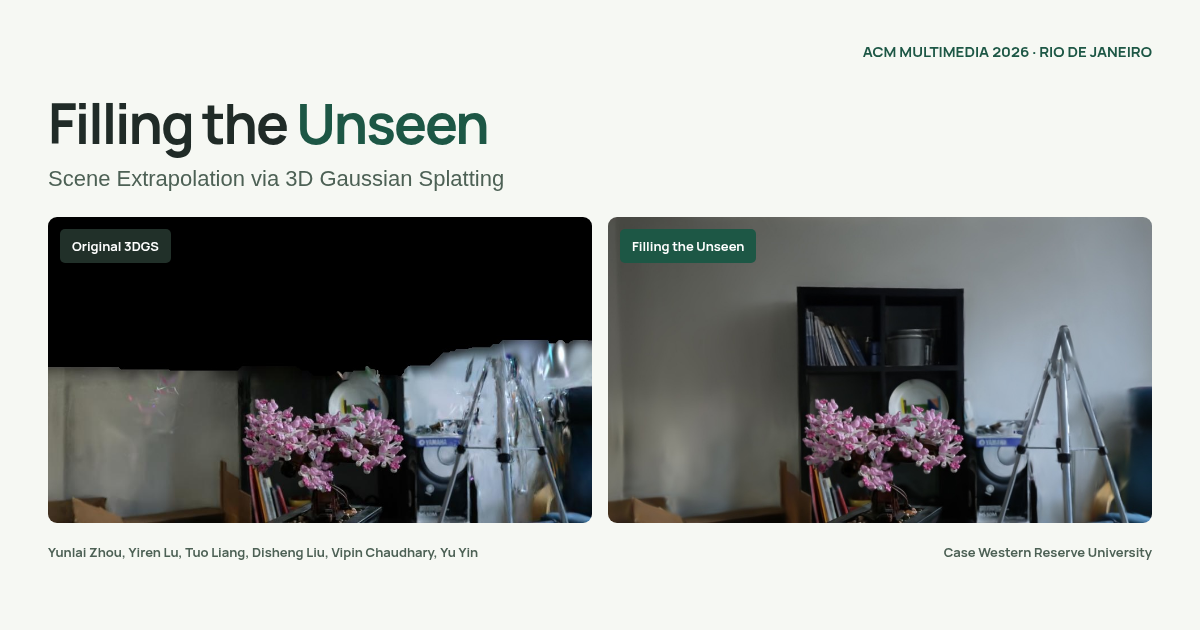
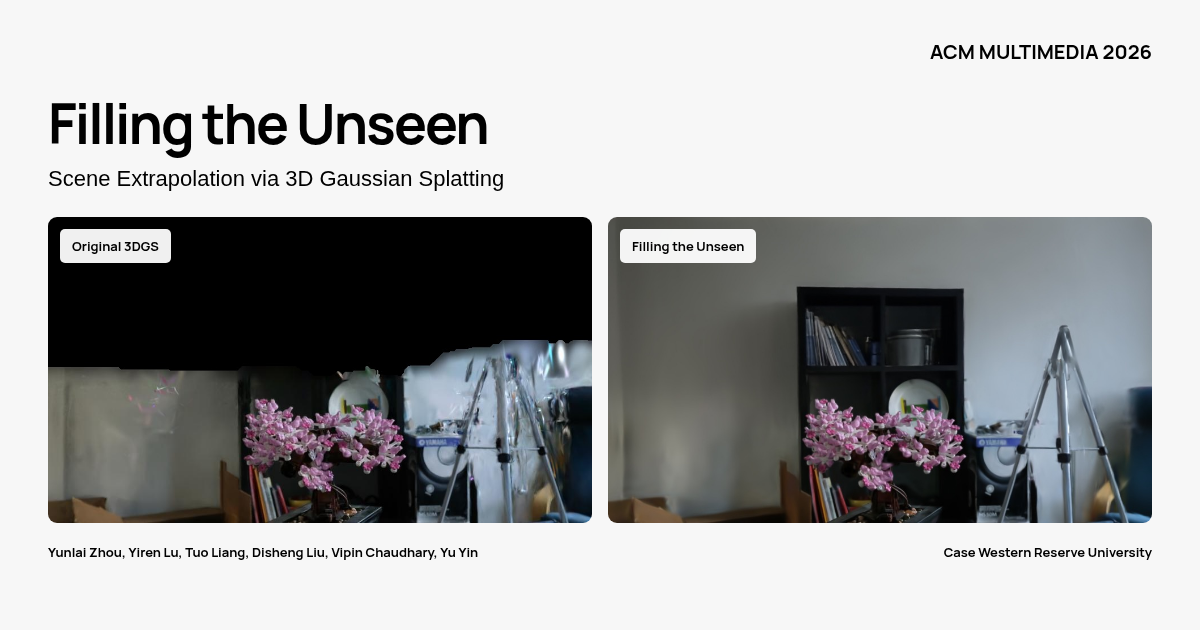
Simplify project page header and use monochrome styling

diff --git a/styles.css b/styles.css
@@ -1,88 +1,74 @@
 @font-face{font-family:Manrope;src:url('assets/fonts/manrope-regular.ttf') format('truetype');font-weight:400;font-style:normal;font-display:swap}
 @font-face{font-family:Manrope;src:url('assets/fonts/manrope-bold.ttf') format('truetype');font-weight:600 800;font-style:normal;font-display:swap}
-:root{--ink:#202b27;--muted:#626d67;--green:#1d5745;--green-light:#e6eee7;--line:#dce2dc;--tint:#f5f7f3;--white:#fff;--radius:12px;font-family:Manrope,Arial,sans-serif;color:var(--ink);font-size:16px;line-height:1.7;font-synthesis:none}
+:root{--ink:#000;--selected:#eee;--line:#ddd;--tint:#f7f7f7;--white:#fff;--radius:12px;font-family:Manrope,Arial,sans-serif;color:var(--ink);font-size:16px;line-height:1.7;font-synthesis:none}
 *{box-sizing:border-box}
-html{scroll-behavior:smooth;scroll-padding-top:94px}
+html{scroll-behavior:smooth;scroll-padding-top:24px}
 body{margin:0;background:var(--white)}
 body:has(dialog[open]){overflow:hidden}
 button,input,select{font:inherit}
 button,a,input,select,summary{-webkit-tap-highlight-color:transparent}
 button,select,summary{cursor:pointer}
-a{color:var(--green);text-decoration:none;text-underline-offset:4px}
+a{color:var(--ink);text-decoration:none;text-underline-offset:4px}
 a:hover{text-decoration:underline}
-button{color:inherit}
+button{color:var(--ink)}
 img,video{display:block;max-width:100%;height:auto}
 button svg,a svg{width:18px;height:18px;fill:none;stroke:currentColor;stroke-width:1.6;stroke-linecap:round;stroke-linejoin:round}
 [hidden]{display:none!important}
-:focus-visible{outline:3px solid #3d8059;outline-offset:5px}
+:focus-visible{outline:3px solid #000;outline-offset:5px}
 h1,h2,h3,p,figure{margin:0}
 h1,h2,h3{line-height:1.2;font-weight:700;text-wrap:balance}
 h2{font-size:36px;letter-spacing:-1.35px}
 h3{font-size:21px;letter-spacing:-.55px}
-p{color:var(--muted)}
+p{color:var(--ink)}
 strong{color:var(--ink)}
 .container{width:min(1080px,calc(100% - 64px));margin-inline:auto}
-.skip-link{position:fixed;top:-70px;left:16px;z-index:100;background:var(--green);color:white;padding:12px 20px;border-radius:6px}
+.skip-link{position:fixed;top:-70px;left:16px;z-index:100;background:#fff;border:1px solid var(--ink);color:var(--ink);padding:12px 20px;border-radius:6px}
 .skip-link:focus{top:10px}
-.site-header{position:sticky;top:0;z-index:20;height:68px;background:rgb(255 255 255 / 94%);backdrop-filter:blur(15px);border-bottom:1px solid #edf0eb}
-.nav{height:100%;display:flex;align-items:center;justify-content:space-between;gap:25px}
+
 .brand{display:flex;align-items:center;gap:10px;font-size:14px;font-weight:700;color:var(--ink);letter-spacing:-.2px}
 .brand:hover{text-decoration:none}
-.nav-links{display:flex;gap:27px;font-size:13px}
-.nav-links a{color:var(--muted)}
-.nav-links a[aria-current]{color:var(--green)}
-.nav-paper{font-size:13px;font-weight:700;display:flex;gap:14px}
+
 .hero{text-align:center;padding-top:62px;padding-bottom:48px}
-.venue{display:flex;justify-content:center;align-items:center;gap:10px;font-size:10px;letter-spacing:1.5px;color:var(--green);font-weight:700}
-.venue-dot{width:6px;height:6px;background:var(--green);border-radius:50%}
-.venue-separator{color:#a2aaa2;margin:0 3px}
+.venue{font-size:clamp(16px,2vw,20px);letter-spacing:1.5px;color:var(--ink);font-weight:700}
+
 h1{font-size:clamp(44px,6.1vw,72px);letter-spacing:-3.5px;margin:23px 0 12px;line-height:1.09}
-h1 span{color:var(--green)}
+
 .paper-subtitle{color:var(--ink);font-size:clamp(19px,2.6vw,29px);line-height:1.4;letter-spacing:-.65px}
 .authors{display:flex;justify-content:center;gap:9px 22px;flex-wrap:wrap;font-size:16px;line-height:1.6;margin-top:25px}
-.authors a,.authors>span{color:var(--green)}
+.authors a,.authors>span{color:var(--ink)}
 .authors sup{font-size:11px;padding-left:2px}
 .affiliation{font-size:14px;color:var(--ink);margin-top:9px}
 .corresponding{font-size:10px;margin-top:4px}
 .publication-links{display:flex;justify-content:center;flex-wrap:wrap;gap:10px;margin-top:24px}
 .button{display:inline-flex;align-items:center;justify-content:center;gap:10px;min-height:43px;border:1px solid transparent;border-radius:30px;padding:9px 20px;font-size:13px;font-weight:700;line-height:1.4;transition:background .2s,transform .2s}
 .button:hover{text-decoration:none;transform:translateY(-1px)}
-.button-dark{background:var(--ink);color:#fff;border-color:var(--ink)}
-.button-dark:hover{background:var(--green);border-color:var(--green)}
-.button-outline{color:var(--ink);background:transparent;border-color:var(--line)}
-.button-outline:hover{background:var(--green-light);border-color:#c2d4c2}
-.figure-topline{display:flex;justify-content:space-between;align-items:center;margin-bottom:14px}
-.figure-topline h2{font-size:17px;letter-spacing:-.4px}
-.interaction-hint{font-size:11px;color:var(--muted)}
-.interaction-hint span{margin-left:7px}
+
+.button-outline{color:var(--ink);background:transparent;border-color:var(--ink)}
+.button-outline:hover{background:var(--selected);border-color:#aaa}
+
 .compare{position:relative;isolation:isolate;aspect-ratio:16/9;overflow:hidden;background:#111;border-radius:var(--radius);--split:50%;touch-action:pan-y}
 .compare>img{position:absolute;inset:0;width:100%;height:100%;object-fit:contain}
 .compare-before{clip-path:inset(0 calc(100% - var(--split)) 0 0)}
-.compare-label{position:absolute;top:19px;z-index:2;pointer-events:none;border:1px solid rgb(255 255 255 / 22%);border-radius:5px;font-size:11px;font-weight:700;line-height:1.2;color:white;padding:8px 11px;background:rgb(20 29 24 / 86%)}
+.compare-label{position:absolute;top:19px;z-index:2;pointer-events:none;border:1px solid var(--line);border-radius:5px;font-size:11px;font-weight:700;line-height:1.2;color:var(--ink);padding:8px 11px;background:rgb(255 255 255 / 94%)}
 .before-label{left:18px}
-.after-label{right:18px;background:var(--green)}
-.after-label>span{margin-left:7px;color:#d6edb5}
+.after-label{right:18px;background:var(--selected)}
+.after-label>span{margin-left:7px;color:var(--ink)}
 .compare-divider{position:absolute;top:0;bottom:0;left:var(--split);width:2px;background:rgba(255,255,255,.92);transform:translateX(-50%);pointer-events:none}
-.compare-divider>span{position:absolute;top:50%;left:50%;transform:translate(-50%,-50%);display:flex;align-items:center;justify-content:center;gap:9px;width:44px;height:44px;border-radius:50%;background:white;box-shadow:0 2px 18px #0003;color:#244a37;font:26px Arial,sans-serif}
-.compare-divider i{display:block;height:14px;width:1px;background:#ced6ce}
+.compare-divider>span{position:absolute;top:50%;left:50%;transform:translate(-50%,-50%);display:flex;align-items:center;justify-content:center;gap:9px;width:44px;height:44px;border-radius:50%;background:white;box-shadow:0 2px 18px #0003;color:var(--ink);font:26px Arial,sans-serif}
+.compare-divider i{display:block;height:14px;width:1px;background:#ccc}
 .compare-range{position:absolute;z-index:3;inset:0;width:100%;height:100%;margin:0;opacity:0;cursor:ew-resize;touch-action:pan-y}
-.compare:focus-within{outline:3px solid #3d8059;outline-offset:5px}
-.teaser-bottom{display:flex;align-items:center;justify-content:space-between;gap:30px;margin-top:19px}
-.teaser-bottom>p{font-size:15px;line-height:1.7}
-.scene-pills{display:flex;gap:9px}
-.scene-pills button{display:flex;align-items:center;gap:8px;padding:5px 10px 5px 5px;background:white;border:1px solid var(--line);border-radius:7px;font-size:11px;font-weight:700;transition:border-color .2s,background .2s}
-.scene-pills img{object-fit:cover;border-radius:3px;width:44px;height:30px}
-.scene-pills button[aria-pressed=true]{background:var(--green-light);border-color:var(--green);color:var(--green)}
-.source-note{font-size:11px;line-height:1.8;color:var(--muted);margin-top:17px}
-.teaser{padding-bottom:64px}
+.compare:focus-within{outline:3px solid #000;outline-offset:5px}
+
+.source-note{font-size:11px;line-height:1.8;color:var(--ink);margin-top:17px}
+
 .section{padding-block:76px}
 .section-tint{background:var(--tint)}
 .section-intro{text-align:center;max-width:760px;margin:0 auto 40px}
-.eyebrow{color:var(--green);font-size:10px;font-weight:700;letter-spacing:1.8px;margin-bottom:13px}
+.eyebrow{color:var(--ink);font-size:10px;font-weight:700;letter-spacing:1.8px;margin-bottom:13px}
 .lead{font-size:15px;line-height:1.9;max-width:665px;margin:19px auto 0}
 .contributions{display:grid;grid-template-columns:repeat(3,1fr);gap:32px;margin:42px 0 44px}
-.contributions article{border-top:1px solid #cbd6c8;padding-top:20px}
-.step-number{font-size:12px;color:var(--green);display:block;margin-bottom:15px;font-weight:700}
+.contributions article{border-top:1px solid #ccc;padding-top:20px}
+.step-number{font-size:12px;color:var(--ink);display:block;margin-bottom:15px;font-weight:700}
 .contributions h3{font-size:20px;margin-bottom:12px}
 .contributions p,.method-steps p{font-size:13px;line-height:1.9}
 .abstract{border-top:1px solid var(--line);border-bottom:1px solid var(--line)}
@@ -94,36 +80,36 @@ details[open]>summary>span{transform:rotate(45deg)}
 .abstract-text p+p{margin-top:14px}
 .section-heading{display:flex;justify-content:space-between;align-items:end;gap:36px;margin-bottom:32px}
 .section-heading>p{font-size:12px;text-align:right;line-height:1.8}
-.meta-label{font-size:10px;letter-spacing:1px;color:var(--muted);padding-bottom:4px}
-.demo-video{width:100%;aspect-ratio:16/9;background:#121715;border:1px solid var(--line);border-radius:var(--radius)}
+.meta-label{font-size:10px;letter-spacing:1px;color:var(--ink);padding-bottom:4px}
+.demo-video{width:100%;aspect-ratio:16/9;background:#111;border:1px solid var(--line);border-radius:var(--radius)}
 .video-caption{display:flex;align-items:start;justify-content:space-between;gap:35px;margin-top:16px}
 .video-caption>p{font-size:12px;max-width:780px}
 .text-link{white-space:nowrap;font-size:12px;font-weight:700}
 .result-scenes{display:grid;grid-template-columns:repeat(4,1fr);gap:12px;margin:0 0 25px}
 .result-scenes button{padding:5px;display:flex;align-items:center;gap:12px;border:1px solid var(--line);border-radius:8px;background:white;text-align:left;transition:border-color .2s,background .2s}
-.result-scenes button[aria-pressed=true]{border-color:var(--green);background:var(--green-light)}
+.result-scenes button[aria-pressed=true]{border-color:var(--ink);background:var(--selected)}
 .result-scenes img{width:74px;height:55px;object-fit:cover;border-radius:4px}
 .result-scenes span{font-size:12px;font-weight:700}
-.result-scenes small{display:block;font-size:10px;color:var(--muted);font-weight:400}
+.result-scenes small{display:block;font-size:10px;color:var(--ink);font-weight:400}
 .result-controls{display:flex;justify-content:space-between;align-items:center;gap:15px;margin-bottom:15px;font-size:11px}
 .method-control,.view-control{display:flex;align-items:center;gap:12px}
-.method-control label,.view-control>span{color:var(--muted)}
-select{min-height:40px;background:#fff;border:1px solid #cdd6cc;padding:6px 32px 6px 13px;border-radius:6px;color:var(--ink);font-size:12px}
+.method-control label,.view-control>span{color:var(--ink)}
+select{min-height:40px;background:#fff;border:1px solid #ccc;padding:6px 32px 6px 13px;border-radius:6px;color:var(--ink);font-size:12px}
 #view-buttons{display:flex;gap:5px}
 #view-buttons button{width:37px;height:37px;border:1px solid var(--line);border-radius:5px;background:#fff;font-size:12px}
-#view-buttons button[aria-pressed=true]{color:white;border-color:var(--green);background:var(--green)}
+#view-buttons button[aria-pressed=true]{color:var(--ink);border-color:var(--ink);background:var(--selected)}
 .comparison-caption{display:flex;justify-content:space-between;align-items:center;gap:20px;margin-top:13px;font-size:11px}
 .method-strip{display:flex;gap:10px;margin-top:23px;overflow-x:auto;padding-bottom:7px}
 .method-thumb{border:1px solid var(--line);border-radius:6px;background:white;flex:1;min-width:120px;padding:4px;text-align:center;font-size:10px;line-height:1.4}
 .method-thumb img{width:100%;aspect-ratio:16/9;object-fit:contain;background:#111;border-radius:3px;margin-bottom:5px}
 .method-thumb span{display:block;margin-bottom:4px}
-.method-thumb[aria-pressed=true]{border-color:var(--green);background:var(--green-light)}
-.method-thumb.ours-thumb{border-color:var(--green);color:var(--green);font-weight:700}
+.method-thumb[aria-pressed=true]{border-color:var(--ink);background:var(--selected)}
+.method-thumb.ours-thumb{border-color:var(--ink);color:var(--ink);font-weight:700}
 .paper-figure{padding:16px;background:#fff;border:1px solid var(--line);border-radius:var(--radius)}
 .zoomable{display:block;position:relative;cursor:zoom-in}
 .zoomable img{width:100%;height:auto}
-.zoom-hint{position:absolute;right:5px;bottom:5px;width:29px;height:29px;display:grid;place-items:center;background:#fff;border:1px solid var(--line);border-radius:4px;color:var(--green);font-size:16px}
-figcaption{font-size:12px;line-height:1.9;color:var(--muted);margin:15px 5px 0}
+.zoom-hint{position:absolute;right:5px;bottom:5px;width:29px;height:29px;display:grid;place-items:center;background:#fff;border:1px solid var(--line);border-radius:4px;color:var(--ink);font-size:16px}
+figcaption{font-size:12px;line-height:1.9;color:var(--ink);margin:15px 5px 0}
 .method-steps{display:grid;grid-template-columns:repeat(3,1fr);gap:30px;margin-top:32px}
 .method-steps .eyebrow{font-size:9px;margin-bottom:10px}
 .method-steps h3{font-size:18px;margin-bottom:13px}
@@ -133,50 +119,50 @@ figcaption{font-size:12px;line-height:1.9;color:var(--muted);margin:15px 5px 0}
 .camera-detail img{max-height:360px;object-fit:contain}
 .camera-detail p{font-size:13px;line-height:1.9}
 .qa-grid{display:grid;grid-template-columns:.8fr 1.2fr;gap:48px;align-items:center;margin-top:45px}
-.module-tag{display:inline-block;color:var(--green);background:var(--green-light);font-size:9px;font-weight:700;letter-spacing:1px;padding:5px 9px;border-radius:4px;margin-bottom:18px}
+.module-tag{display:inline-block;color:var(--ink);background:var(--selected);font-size:9px;font-weight:700;letter-spacing:1px;padding:5px 9px;border-radius:4px;margin-bottom:18px}
 .qa-copy h3{font-size:27px;line-height:1.3;margin-bottom:17px}
 .qa-copy>p{font-size:13px;line-height:1.9}
-.qa-stat{display:flex;flex-direction:column;gap:5px;margin-top:22px;border-bottom:1px solid #d6dfd1;padding-bottom:17px}
+.qa-stat{display:flex;flex-direction:column;gap:5px;margin-top:22px;border-bottom:1px solid #ddd;padding-bottom:17px}
 .qa-stat>span{font-size:12px;font-weight:700}
-.qa-stat small{font-size:10px;font-weight:400;color:var(--muted);margin-left:5px}
-.qa-stat strong{font-size:26px;color:var(--green);letter-spacing:-.8px;font-variant-numeric:tabular-nums}
-.qa-stat strong>span{font-size:19px;color:#829782;margin:0 9px}
+.qa-stat small{font-size:10px;font-weight:400;color:var(--ink);margin-left:5px}
+.qa-stat strong{font-size:26px;color:var(--ink);letter-spacing:-.8px;font-variant-numeric:tabular-nums}
+.qa-stat strong>span{font-size:19px;color:var(--ink);margin:0 9px}
 .qa-copy .source-note{font-size:10px;margin-top:13px}
 .qa-example{padding:10px}
 .metrics-tabs{display:flex;gap:9px;margin:30px 0 17px}
-.metrics-tabs button{background:#f3f5f0;border:1px solid transparent;border-radius:7px;padding:10px 17px;font-size:13px;font-weight:700}
-.metrics-tabs button[aria-selected=true]{background:var(--green);color:white}
-.metrics-tabs button span{font-size:10px;margin-left:12px;font-weight:400;opacity:.85}
+.metrics-tabs button{background:#f5f5f5;border:1px solid transparent;border-radius:7px;padding:10px 17px;font-size:13px;font-weight:700}
+.metrics-tabs button[aria-selected=true]{background:var(--selected);color:var(--ink)}
+.metrics-tabs button span{font-size:10px;margin-left:12px;font-weight:400;opacity:1}
 .table-scroll{overflow:auto;border:1px solid var(--line);border-radius:9px}
 table{border-collapse:collapse;min-width:600px;width:100%;font-size:13px;text-align:right;font-variant-numeric:tabular-nums}
-caption{caption-side:bottom;text-align:left;font-size:10px;color:var(--muted);padding:12px 19px;border-top:1px solid var(--line)}
-th,td{padding:16px 22px;border-bottom:1px solid #e8ece5;white-space:nowrap}
+caption{caption-side:bottom;text-align:left;font-size:10px;color:var(--ink);padding:12px 19px;border-top:1px solid var(--line)}
+th,td{padding:16px 22px;border-bottom:1px solid #e8e8e8;white-space:nowrap}
 th:first-child{text-align:left}
-thead{font-size:11px;background:#f5f7f3;color:var(--muted)}
+thead{font-size:11px;background:#f7f7f7;color:var(--ink)}
 tbody th{font-weight:400}
 tbody tr:last-child td,tbody tr:last-child th{border-bottom:0}
-.ours-row{background:#eaf2e7;color:var(--green)}
-.ours-row th,.ours-row strong{font-weight:700;color:var(--green)}
-.ours-row th>span{margin-left:10px;font-size:9px;padding:3px 6px;background:#d3e3cf;border-radius:3px;font-weight:400}
+.ours-row{background:#eee;color:var(--ink)}
+.ours-row th,.ours-row strong{font-weight:700;color:var(--ink)}
+.ours-row th>span{margin-left:10px;font-size:9px;padding:3px 6px;background:#ddd;border-radius:3px;font-weight:400}
 .evaluation-note{font-size:11px;line-height:1.9;margin-top:17px;max-width:970px}
 .citation-container{max-width:930px}
 .citation-container>p{font-size:13px}
 .citation-container .section-heading{align-items:center;margin-bottom:17px}
-pre{background:#fff;border:1px solid var(--line);border-radius:9px;padding:25px 29px;overflow:auto;font-size:12px;line-height:1.9;color:#3c5144;margin-top:25px;tab-size:2}
+pre{background:#fff;border:1px solid var(--line);border-radius:9px;padding:25px 29px;overflow:auto;font-size:12px;line-height:1.9;color:var(--ink);margin-top:25px;tab-size:2}
 code{font-family:'SFMono-Regular',Consolas,'Liberation Mono',monospace}
-.copy-status{min-height:20px;font-size:11px;color:var(--green)}
+.copy-status{min-height:20px;font-size:11px;color:var(--ink)}
 .footer{display:flex;justify-content:space-between;align-items:center;gap:25px;padding-block:34px}
 .footer p{font-size:10px;line-height:1.9;margin-top:9px}
 .footer>p{text-align:right}
 dialog{max-width:min(1320px,94vw);max-height:94vh;border:0;border-radius:12px;padding:45px 22px 20px;box-shadow:0 20px 80px #0004;color:var(--ink)}
-dialog::backdrop{background:rgb(14 25 18 / 78%);backdrop-filter:blur(4px)}
+dialog::backdrop{background:rgb(0 0 0 / 78%);backdrop-filter:blur(4px)}
 #dialog-image{max-height:72vh;max-width:100%;width:auto;height:auto;object-fit:contain;margin:auto}
 .dialog-close{position:absolute;top:5px;right:9px;border:0;background:transparent;font-size:30px;line-height:1;width:38px;height:38px}
 #dialog-caption{font-size:13px;margin-top:17px}
 #dialog-pdf{display:inline-block;margin-top:8px}
 @media(min-width:1500px){.container{width:min(1120px,calc(100% - 80px))}.hero{padding-top:70px;padding-bottom:53px}}
-@media(max-width:900px){.nav-links{gap:17px}.hero{padding-top:45px}.authors{gap:9px 16px;font-size:14px}.result-scenes img{width:55px;height:48px}.result-scenes button{gap:8px}.result-scenes span{font-size:11px}.result-scenes small{font-size:9px}.qa-grid{gap:27px}.qa-copy h3{font-size:23px}.qa-stat strong{font-size:23px}.section-heading>p{max-width:220px}.section-heading h2{font-size:31px}}
-@media(max-width:700px){.container{width:calc(100% - 36px)}.site-header{height:60px}.nav{gap:12px}.nav-links{gap:16px;font-size:11px}.nav-links a:first-child,.nav-links a:last-child{display:none}.nav-paper{display:none}.brand{font-size:12px;gap:7px}.brand img{width:24px;height:24px}.hero{padding-top:37px;padding-bottom:34px}.venue{font-size:8px;letter-spacing:1.05px;gap:7px}.venue-separator{margin:0}h1{font-size:48px;letter-spacing:-2.5px;margin-top:21px}.paper-subtitle{font-size:21px;max-width:410px;margin:auto;line-height:1.45}.authors{max-width:450px;margin:20px auto 0;gap:7px 15px;font-size:13px}.affiliation{font-size:12px;margin-top:12px}.corresponding{font-size:9px}.publication-links{margin-top:20px;gap:7px}.button{min-height:41px;font-size:11px;padding:9px 14px;gap:7px}.figure-topline h2{font-size:14px}.interaction-hint{font-size:10px}.compare-label{font-size:9px;top:11px;padding:6px 8px}.before-label{left:10px}.after-label{right:10px}.compare-divider>span{width:36px;height:36px;gap:6px;font-size:23px}.teaser-bottom{flex-direction:column;align-items:start;gap:17px;margin-top:15px}.teaser-bottom>p{font-size:13px}.teaser-bottom>p br{display:none}.scene-pills{width:100%;gap:7px}.scene-pills button{flex:1;font-size:10px;gap:6px;padding-right:6px}.scene-pills img{width:36px;height:26px}.teaser{padding-bottom:38px}.source-note{font-size:10px}.section{padding-block:48px}h2{font-size:29px;letter-spacing:-1px}.section-intro{margin-bottom:28px}.eyebrow{font-size:9px;letter-spacing:1.5px;margin-bottom:10px}.lead{font-size:13px;line-height:1.9;margin-top:15px}.contributions{grid-template-columns:1fr;gap:23px;margin:30px 0}.contributions article{padding-top:17px;display:grid;grid-template-columns:27px 1fr;gap:0 9px}.step-number{grid-row:1/3;margin:2px 0 0}.contributions h3{font-size:18px;margin-bottom:8px}.contributions p{font-size:12px}.abstract-text{font-size:12px;line-height:1.95}summary{font-size:14px}.section-heading{display:block;margin-bottom:24px}.section-heading h2{font-size:28px}.section-heading>p{max-width:none;text-align:left;margin-top:13px}.section-heading>p br{display:none}.meta-label{display:block;font-size:9px;margin-top:12px}.video-caption{display:block}.video-caption>p{font-size:11px;margin-bottom:13px}.result-scenes{grid-template-columns:repeat(2,1fr);gap:8px;margin-bottom:22px}.result-scenes img{width:59px;height:45px}.result-scenes span{font-size:11px}.result-controls{flex-wrap:wrap;gap:13px}.method-control{gap:8px}.view-control{gap:8px}#view-buttons button{width:30px;height:34px;font-size:11px}.method-control select{font-size:11px;min-height:34px;max-width:162px}.comparison-caption{align-items:start;gap:12px;font-size:10px}.comparison-caption .text-link{font-size:10px}.method-strip{margin-top:17px;gap:8px}.method-thumb{min-width:105px}.paper-figure{padding:9px}figcaption{font-size:10px;margin:12px 2px 2px}.method-steps{grid-template-columns:1fr;gap:23px;margin-top:25px}.method-steps h3{margin-bottom:8px}.method-steps p{font-size:12px}.figure-details{margin-top:27px}.figure-details summary{font-size:12px}.camera-detail{grid-template-columns:1fr;gap:18px}.camera-detail p{font-size:12px}.qa-grid{grid-template-columns:1fr;gap:25px;margin-top:30px}.qa-copy h3{font-size:26px}.qa-stat{margin-top:18px}.qa-stat strong{font-size:27px}.metrics-tabs{gap:7px}.metrics-tabs button{padding:10px 12px;font-size:12px}.metrics-tabs button span{display:block;margin-left:0;text-align:left;font-size:9px}table{font-size:11px;min-width:520px}th,td{padding:13px 15px}.citation-container .section-heading{display:flex;gap:15px}.citation-container .section-heading h2{font-size:27px}.citation-container>p{font-size:11px}pre{padding:18px;font-size:10px}.footer{flex-direction:column;align-items:start;gap:12px;padding-block:26px}.footer>p{text-align:left;margin-top:0}dialog{padding:42px 13px 17px}#dialog-caption{font-size:11px}}
-@media(max-width:380px){h1{font-size:41px}.paper-subtitle{font-size:18px}.venue{font-size:7px}.scene-pills button{font-size:9px}.scene-pills img{width:30px}.result-scenes img{width:46px}.nav-links{gap:12px}.interaction-hint{font-size:9px}}
+@media(max-width:900px){.hero{padding-top:45px}.authors{gap:9px 16px;font-size:14px}.result-scenes img{width:55px;height:48px}.result-scenes button{gap:8px}.result-scenes span{font-size:11px}.result-scenes small{font-size:9px}.qa-grid{gap:27px}.qa-copy h3{font-size:23px}.qa-stat strong{font-size:23px}.section-heading>p{max-width:220px}.section-heading h2{font-size:31px}}
+@media(max-width:700px){.container{width:calc(100% - 36px)}.brand{font-size:12px;gap:7px}.hero{padding-top:37px;padding-bottom:34px}h1{font-size:48px;letter-spacing:-2.5px;margin-top:21px}.paper-subtitle{font-size:21px;max-width:410px;margin:auto;line-height:1.45}.authors{max-width:450px;margin:20px auto 0;gap:7px 15px;font-size:13px}.affiliation{font-size:12px;margin-top:12px}.corresponding{font-size:9px}.publication-links{margin-top:20px;gap:7px}.button{min-height:41px;font-size:11px;padding:9px 14px;gap:7px}.compare-label{font-size:9px;top:11px;padding:6px 8px}.before-label{left:10px}.after-label{right:10px}.compare-divider>span{width:36px;height:36px;gap:6px;font-size:23px}.source-note{font-size:10px}.section{padding-block:48px}h2{font-size:29px;letter-spacing:-1px}.section-intro{margin-bottom:28px}.eyebrow{font-size:9px;letter-spacing:1.5px;margin-bottom:10px}.lead{font-size:13px;line-height:1.9;margin-top:15px}.contributions{grid-template-columns:1fr;gap:23px;margin:30px 0}.contributions article{padding-top:17px;display:grid;grid-template-columns:27px 1fr;gap:0 9px}.step-number{grid-row:1/3;margin:2px 0 0}.contributions h3{font-size:18px;margin-bottom:8px}.contributions p{font-size:12px}.abstract-text{font-size:12px;line-height:1.95}summary{font-size:14px}.section-heading{display:block;margin-bottom:24px}.section-heading h2{font-size:28px}.section-heading>p{max-width:none;text-align:left;margin-top:13px}.section-heading>p br{display:none}.meta-label{display:block;font-size:9px;margin-top:12px}.video-caption{display:block}.video-caption>p{font-size:11px;margin-bottom:13px}.result-scenes{grid-template-columns:repeat(2,1fr);gap:8px;margin-bottom:22px}.result-scenes img{width:59px;height:45px}.result-scenes span{font-size:11px}.result-controls{flex-wrap:wrap;gap:13px}.method-control{gap:8px}.view-control{gap:8px}#view-buttons button{width:30px;height:34px;font-size:11px}.method-control select{font-size:11px;min-height:34px;max-width:162px}.comparison-caption{align-items:start;gap:12px;font-size:10px}.comparison-caption .text-link{font-size:10px}.method-strip{margin-top:17px;gap:8px}.method-thumb{min-width:105px}.paper-figure{padding:9px}figcaption{font-size:10px;margin:12px 2px 2px}.method-steps{grid-template-columns:1fr;gap:23px;margin-top:25px}.method-steps h3{margin-bottom:8px}.method-steps p{font-size:12px}.figure-details{margin-top:27px}.figure-details summary{font-size:12px}.camera-detail{grid-template-columns:1fr;gap:18px}.camera-detail p{font-size:12px}.qa-grid{grid-template-columns:1fr;gap:25px;margin-top:30px}.qa-copy h3{font-size:26px}.qa-stat{margin-top:18px}.qa-stat strong{font-size:27px}.metrics-tabs{gap:7px}.metrics-tabs button{padding:10px 12px;font-size:12px}.metrics-tabs button span{display:block;margin-left:0;text-align:left;font-size:9px}table{font-size:11px;min-width:520px}th,td{padding:13px 15px}.citation-container .section-heading{display:flex;gap:15px}.citation-container .section-heading h2{font-size:27px}.citation-container>p{font-size:11px}pre{padding:18px;font-size:10px}.footer{flex-direction:column;align-items:start;gap:12px;padding-block:26px}.footer>p{text-align:left;margin-top:0}dialog{padding:42px 13px 17px}#dialog-caption{font-size:11px}}
+@media(max-width:380px){h1{font-size:41px}.paper-subtitle{font-size:18px}.result-scenes img{width:46px}}
 @media(prefers-reduced-motion:reduce){html{scroll-behavior:auto}*,*::before,*::after{transition:none!important;animation:none!important}}
-@media print{.site-header,.publication-links,.compare-range,.compare-divider,.scene-pills,.result-controls,.result-scenes,.method-strip,.demo-video,.metrics-tabs,#copy-citation,.dialog-close{display:none!important}.container{width:100%}.section{padding-block:25px}.hero{padding-top:15px}.compare-before{display:none}.compare-label.before-label{display:none}.section-tint{background:white}.paper-figure{break-inside:avoid}.footer{display:none}#metrics-mipnerf[hidden]{display:block!important}}
+@media print{.publication-links,.compare-range,.compare-divider,.result-controls,.result-scenes,.method-strip,.demo-video,.metrics-tabs,#copy-citation,.dialog-close{display:none!important}.container{width:100%}.section{padding-block:25px}.hero{padding-top:15px}.compare-before{display:none}.compare-label.before-label{display:none}.section-tint{background:white}.paper-figure{break-inside:avoid}.footer{display:none}#metrics-mipnerf[hidden]{display:block!important}}

diff --git a/index.html b/index.html
@@ -3,7 +3,7 @@
 <head>
   <meta charset="utf-8">
   <meta name="viewport" content="width=device-width, initial-scale=1">
-  <meta name="theme-color" content="#1d5745">
+  <meta name="theme-color" content="#ffffff">
   <title>Filling the Unseen · ACM MM 2026</title>
   <meta name="description" content="Filling the Unseen: Scene Extrapolation via 3D Gaussian Splatting. A hierarchical framework for expanding 3D scenes, with Quality-Aware Masks that preserve reconstructed detail. ACM Multimedia 2026.">
   <link rel="canonical" href="https://vulab-ai.github.io/filling-the-unseen/">
@@ -24,25 +24,16 @@
   <meta name="citation_conference_title" content="Proceedings of the 34th ACM International Conference on Multimedia">
   <meta name="citation_doi" content="10.1145/3767308.3835425">
   <meta name="citation_pdf_url" content="https://vulab-ai.github.io/filling-the-unseen/assets/paper/filling-the-unseen.pdf">
-  <link rel="preload" as="image" href="assets/results/teaser-bonsai-ours.jpg">
   <link rel="stylesheet" href="styles.css">
   <script src="site-config.js" defer></script>
   <script src="app.js" defer></script>
 </head>
 <body>
   <a class="skip-link" href="#main">Skip to content</a>
-  <header class="site-header">
-    <nav class="nav container" aria-label="Main navigation">
-      <a class="brand" href="#">Filling the Unseen</a>
-      <div class="nav-links"><a href="#overview">Overview</a><a href="#results">Results</a><a href="#method">Method</a><a href="#citation">Citation</a></div>
-      <a class="nav-paper" href="assets/paper/filling-the-unseen.pdf" target="_blank" rel="noopener">Paper <span aria-hidden="true">↗</span></a>
-    </nav>
-  </header>
-
   <main id="main">
     <section class="hero container" aria-labelledby="paper-title">
-      <p class="venue"><span class="venue-dot" aria-hidden="true"></span> ACM MULTIMEDIA 2026 <span class="venue-separator">/</span> RIO DE JANEIRO</p>
-      <h1 id="paper-title">Filling the <span>Unseen</span></h1>
+      <p class="venue">ACM MULTIMEDIA 2026</p>
+      <h1 id="paper-title">Filling the Unseen</h1>
       <p class="paper-subtitle">Scene Extrapolation via 3D Gaussian Splatting</p>
       <div class="authors" aria-label="Authors">
         <a href="https://github.com/Allen-Zhou729">Yunlai Zhou</a>
@@ -55,32 +46,10 @@
       <p class="affiliation">Case Western Reserve University</p>
       <p class="corresponding">† Corresponding author</p>
       <div class="publication-links">
-        <a class="button button-dark" data-resource="paper" href="assets/paper/filling-the-unseen.pdf" target="_blank" rel="noopener"><svg viewBox="0 0 24 24" aria-hidden="true"><path d="M14 3H6a2 2 0 0 0-2 2v14a2 2 0 0 0 2 2h12a2 2 0 0 0 2-2V9Zm0 0v6h6M8 13h8M8 17h5"/></svg>Paper</a>
-        <a class="button button-dark" data-resource="code" href="https://github.com/vulab-AI/filling-the-unseen-code" target="_blank" rel="noopener"><svg viewBox="0 0 24 24" aria-hidden="true"><path d="m8 7-5 5 5 5m8-10 5 5-5 5m-3-14-2 18"/></svg>Code</a>
-        <a class="button button-dark" href="#video"><svg viewBox="0 0 24 24" aria-hidden="true"><rect x="3" y="5" width="18" height="14" rx="4"/><path d="m10 9 5 3-5 3Z"/></svg>Video</a>
-        <a class="button button-outline" href="#results">Explore results <span aria-hidden="true">↗</span></a>
-        <a class="button button-dark" data-resource="arxiv" hidden>arXiv</a>
+        <a class="button button-outline" data-resource="paper" href="assets/paper/filling-the-unseen.pdf" target="_blank" rel="noopener"><svg viewBox="0 0 24 24" aria-hidden="true"><path d="M14 3H6a2 2 0 0 0-2 2v14a2 2 0 0 0 2 2h12a2 2 0 0 0 2-2V9Zm0 0v6h6M8 13h8M8 17h5"/></svg>Paper</a>
+        <a class="button button-outline" data-resource="code" href="https://github.com/vulab-AI/filling-the-unseen-code" target="_blank" rel="noopener"><svg viewBox="0 0 24 24" aria-hidden="true"><path d="m8 7-5 5 5 5m8-10 5 5-5 5m-3-14-2 18"/></svg>Code</a>
+        <a class="button button-outline" data-resource="arxiv" hidden>arXiv</a>
       </div>
-    </section>
-
-    <section class="teaser container" aria-labelledby="teaser-heading">
-      <div class="figure-topline"><h2 id="teaser-heading">Beyond the observed scene.</h2><span class="interaction-hint">Drag to reveal <span aria-hidden="true">↔</span></span></div>
-      <div class="compare hero-compare" data-compare style="--split: 48%">
-        <img class="compare-after" id="hero-after" src="assets/results/teaser-bonsai-ours.jpg" width="960" height="540" alt="Our completed Bonsai scene, with the missing upper wall reconstructed and the tripod refined." fetchpriority="high">
-        <img class="compare-before" id="hero-before" src="assets/results/teaser-bonsai-original.jpg" width="960" height="540" alt="Original 3DGS rendering of Bonsai, with missing geometry above the training views.">
-        <span class="compare-label before-label">Original 3DGS</span><span class="compare-label after-label">Filling the Unseen <span aria-hidden="true">✦</span></span>
-        <div class="compare-divider" aria-hidden="true"><span>‹<i></i>›</span></div>
-        <input class="compare-range" type="range" min="0" max="100" value="48" aria-label="Compare original 3DGS with Filling the Unseen" aria-valuetext="48% original 3DGS, 52% Filling the Unseen">
-      </div>
-      <div class="teaser-bottom">
-        <p>Expand into unobserved regions.<br><strong>Preserve the details already there.</strong></p>
-        <div class="scene-pills" aria-label="Teaser scene">
-          <button type="button" data-hero="bonsai" aria-pressed="true"><img src="assets/results/teaser-bonsai-ours.jpg" alt="" width="48" height="32">Bonsai</button>
-          <button type="button" data-hero="garden" aria-pressed="false"><img src="assets/results/teaser-garden-ours.jpg" alt="" width="48" height="32">Garden</button>
-          <button type="button" data-hero="indoor" aria-pressed="false"><img src="assets/results/teaser-indoor-ours.jpg" alt="" width="48" height="32">Indoor</button>
-        </div>
-      </div>
-      <p class="source-note">Actual renderings from the paper. Black regions indicate missing content in the original reconstruction.</p>
     </section>
 
     <section class="section section-tint" id="overview" aria-labelledby="overview-heading">
@@ -190,6 +159,6 @@
   </main>
   <footer class="footer container"><div><a class="brand" href="#">Filling the Unseen</a><p>Case Western Reserve University · ACM MM 2026</p></div><p>Page design inspired by <a href="https://yiren-lu.com/project_pages/view-consistent_object_removal_in_radiance_fields/">View-consistent Object Removal</a>.<br><a data-site-source href="https://github.com/vulab-AI/filling-the-unseen">Website source</a> · Paper and figures: <a href="https://creativecommons.org/licenses/by/4.0/">CC BY 4.0</a></p></footer>
   <dialog id="figure-dialog" aria-labelledby="dialog-caption"><button type="button" class="dialog-close" aria-label="Close enlarged figure">×</button><img id="dialog-image" alt=""><p id="dialog-caption"></p><a id="dialog-pdf" class="text-link" target="_blank" rel="noopener">Open original PDF ↗</a></dialog>
-  <noscript><style>.compare-before,.compare-label,.compare-divider,.compare-range,.scene-pills,.result-scenes,.result-controls,.method-strip,.metrics-tabs,#copy-citation{display:none!important}#metrics-mipnerf[hidden]{display:block!important}</style></noscript>
+  <noscript><style>.compare-before,.compare-label,.compare-divider,.compare-range,.result-scenes,.result-controls,.method-strip,.metrics-tabs,#copy-citation{display:none!important}#metrics-mipnerf[hidden]{display:block!important}</style></noscript>
 </body>
 </html>

diff --git a/app.js b/app.js
@@ -32,25 +32,6 @@ function loadImage(src) {
   });
 }
 
-let heroRequest = 0;
-$$('[data-hero]').forEach(button => {
-  button.addEventListener('click', async () => {
-    const request = ++heroRequest;
-    const scene = button.dataset.hero;
-    const before = `assets/results/teaser-${scene}-original.jpg`;
-    const after = `assets/results/teaser-${scene}-ours.jpg`;
-    try {
-      await Promise.all([loadImage(before), loadImage(after)]);
-      if (request !== heroRequest) return;
-      $('#hero-before').src = before;
-      $('#hero-after').src = after;
-      $('#hero-before').alt = `${button.textContent.trim()}: original 3DGS rendering with missing regions and artifacts.`;
-      $('#hero-after').alt = `${button.textContent.trim()}: Filling the Unseen completes missing regions and refines the scene.`;
-      $$('[data-hero]').forEach(item => item.setAttribute('aria-pressed', String(item === button)));
-    } catch (error) { console.error(error); }
-  });
-});
-
 const labels = {
   original: 'Original 3DGS', genfusion: 'GenFusion', fsgs: 'Few-Shot GS',
   guidedvd: 'Guidedvd-3dgs', difix: 'DiFix3D+', gt: 'Ground truth', ours: 'Ours',
@@ -211,16 +192,3 @@ $('#copy-citation').addEventListener('click', async () => {
     $('#copy-status').textContent = 'Citation selected. Press Ctrl+C or ⌘C to copy.';
   }
 });
-
-if ('IntersectionObserver' in window) {
-  const observer = new IntersectionObserver(entries => {
-    for (const entry of entries) {
-      if (!entry.isIntersecting) continue;
-      $$('.nav-links a').forEach(link => {
-        if (link.hash === `#${entry.target.id}`) link.setAttribute('aria-current', 'location');
-        else link.removeAttribute('aria-current');
-      });
-    }
-  }, { rootMargin: '-15% 0px -55% 0px', threshold: 0 });
-  ['overview', 'results', 'method', 'citation'].forEach(id => observer.observe(document.getElementById(id)));
-}
